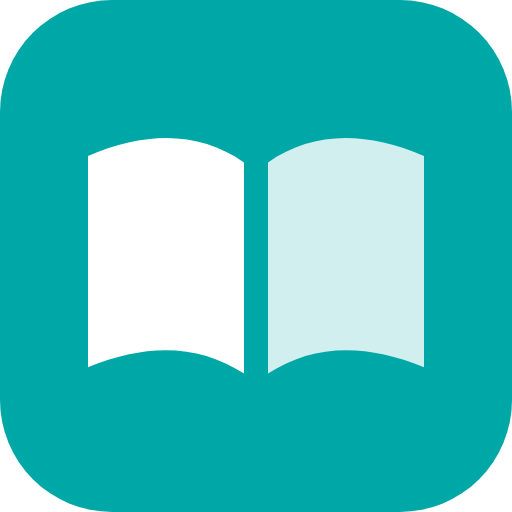
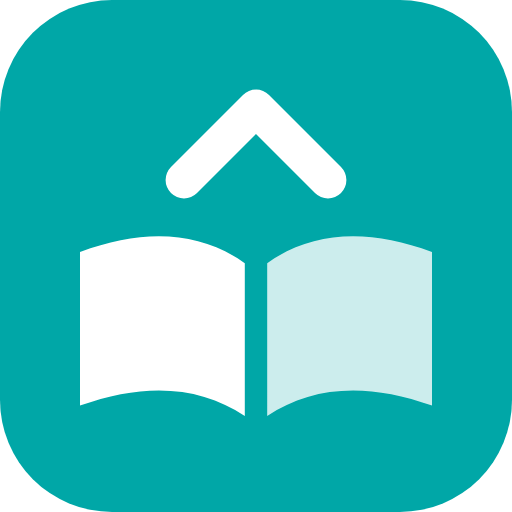
플랫폼 이름 Read to Lead로 변경: 로고·워드마크·아이콘·공유 이미지·메일 제목
Claude-Session: https://claude.ai/code/session_01WajEj62pLWjYi98wKf4MAY

Changed region(s): [[0.1562, 0.1562, 0.8438, 0.8125]]

diff --git a/supabase/functions/notify/index.ts b/supabase/functions/notify/index.ts
@@ -25,7 +25,7 @@ function layout(title: string, lines: string[], url?: string) {
     ? `<p style="margin:24px 0"><a href="${esc(url)}" style="background:#1C1917;color:#fff;padding:12px 20px;border-radius:99px;text-decoration:none;font-weight:700">플랫폼 바로가기</a></p>`
     : "";
   return `<div style="font-family:Pretendard,'Apple SD Gothic Neo','Malgun Gothic',sans-serif;max-width:560px;margin:0 auto;padding:24px;color:#1C1917">
-  <p style="color:#00807F;font-weight:700;margin:0 0 8px">리더십 2년차 독서교육</p>
+  <p style="color:#00807F;font-weight:700;margin:0 0 8px">Read to Lead · 리더십 2년차 독서교육</p>
   <h2 style="margin:0 0 20px;font-size:20px">${title}</h2>${body}${btn}
   <p style="color:#79716B;font-size:12px;margin-top:32px">배움은 생존을 위한 가장 공격적인 투자다 · 상상인그룹 인재경영실</p></div>`;
 }
@@ -69,7 +69,7 @@ Deno.serve(async (req) => {
       let subject: string, html: string, type: string;
       if (body.mode === "accounts") {
         type = "account";
-        subject = "[리더십 2년차] 독서교육 플랫폼 계정 안내";
+        subject = "[Read to Lead] 리더십 2년차 독서교육 계정 안내";
         html = layout(`${esc(p.name)}님, 플랫폼 계정이 준비되었습니다`, [
           `접속 주소: <a href="${esc(appUrl)}">${esc(appUrl)}</a>`,
           `로그인 방법: 계열사 <b>${esc(p.companies?.name)}</b> 선택 → 사번 <b>${esc(p.emp_no)}</b> 입력 → 최초 비밀번호는 <b>본인 사번</b>입니다.`,
@@ -78,7 +78,7 @@ Deno.serve(async (req) => {
         ], appUrl);
       } else {
         type = "manual";
-        subject = String(body.subject || "[리더십 2년차] 제출 안내").replace(/[\r\n]/g, " ").slice(0, 150);
+        subject = String(body.subject || "[Read to Lead] 제출 안내").replace(/[\r\n]/g, " ").slice(0, 150);
         html = layout(esc(subject.replace(/^\[[^\]]+\]\s*/, "")),
           String(body.message || "").split("\n").filter(Boolean).map((l) => esc(l).replace(/\{name\}/g, esc(p.name))), appUrl);
       }
@@ -128,7 +128,7 @@ Deno.serve(async (req) => {
     // 회차 오픈
     if (kstDate(s.open_at) === today) {
       for (const p of people) {
-        tally(await send(db, p.notify_email, `[리더십 2년차] ${s.month}월 회차가 열렸습니다 — ${title}`,
+        tally(await send(db, p.notify_email, `[Read to Lead] ${s.month}월 회차가 열렸습니다 — ${title}`,
           layout(`${s.month}월 회차가 열렸습니다`, [
             `이번 달 도서: <b>${title}</b>${book ? ` · ${esc(book.author)}` : ""}`,
             `토론 일시: ${kstText(s.meet_at)}${s.place ? ` · ${esc(s.place)}` : ""}`,
@@ -145,7 +145,7 @@ Deno.serve(async (req) => {
       for (const p of required) {
         const m = missing(p, ["pre", "presentation"]);
         if (!m.length) continue;
-        tally(await send(db, p.notify_email, `[리더십 2년차] ${m.map((f) => FORM_LABEL[f]).join("·")} 마감 ${d}일 전`,
+        tally(await send(db, p.notify_email, `[Read to Lead] ${m.map((f) => FORM_LABEL[f]).join("·")} 마감 ${d}일 전`,
           layout(`${title} ${m.map((f) => FORM_LABEL[f]).join("·")} 마감이 ${d}일 남았습니다`,
             [`마감: <b>${kstText(s.pre_due_at)}</b>`, "작성 중인 내용은 자동 저장됩니다. 제출 버튼을 눌러야 제출로 인정됩니다."], appUrl),
           { profile_id: p.id, company_id: s.company_id, type: `pre_d${d}`, session_id: s.id, dedupe_key: `pre_d${d}:${s.id}:${p.id}` }));
@@ -155,7 +155,7 @@ Deno.serve(async (req) => {
     if (shift(s.post_due_at, -2) === today) {
       for (const p of required) {
         if (!missing(p, ["post"]).length) continue;
-        tally(await send(db, p.notify_email, `[리더십 2년차] ${s.month}월 과제 마감 2일 전`,
+        tally(await send(db, p.notify_email, `[Read to Lead] ${s.month}월 과제 마감 2일 전`,
           layout(`${title} 과제 마감이 2일 남았습니다`, [`마감: <b>${kstText(s.post_due_at)}</b>`, "토론 주제·인사이트·기대사항을 정리해 제출해 주세요."], appUrl),
           { profile_id: p.id, company_id: s.company_id, type: "post_remind", session_id: s.id, dedupe_key: `post_remind:${s.id}:${p.id}` }));
       }
@@ -171,7 +171,7 @@ Deno.serve(async (req) => {
         const list = overdueByCompany.get(s.company_id) ?? [];
         list.push(`${esc(p.name)}(${esc(p.emp_no)}) · ${s.month}월 ${m.map((f) => FORM_LABEL[f]).join("·")}`);
         overdueByCompany.set(s.company_id, list);
-        tally(await send(db, p.notify_email, `[리더십 2년차] ${s.month}월 ${m.map((f) => FORM_LABEL[f]).join("·")} 미제출 안내`,
+        tally(await send(db, p.notify_email, `[Read to Lead] ${s.month}월 ${m.map((f) => FORM_LABEL[f]).join("·")} 미제출 안내`,
           layout("마감이 지났습니다 — 지연 제출 안내", [
             `${title} ${m.map((f) => FORM_LABEL[f]).join("·")}가 아직 제출되지 않았습니다.`,
             "12회 전 회차를 모두 제출해야 수료할 수 있습니다. 지금 제출하면 '지연 제출'로 기록되며 수료에는 인정됩니다.",
@@ -187,7 +187,7 @@ Deno.serve(async (req) => {
   for (const a of admins) {
     const list = overdueByCompany.get(a.company_id);
     if (list?.length) {
-      tally(await send(db, a.notify_email, `[리더십 2년차] 미제출자 ${list.length}건 안내`,
+      tally(await send(db, a.notify_email, `[Read to Lead] 미제출자 ${list.length}건 안내`,
         layout("마감 후 미제출 현황", [...list.slice(0, 50), list.length > 50 ? `외 ${list.length - 50}건` : ""].filter(Boolean), appUrl),
         { profile_id: a.id, company_id: a.company_id, type: "admin_overdue", dedupe_key: `admin_overdue:${today}:${a.id}` }));
     }
@@ -202,7 +202,7 @@ Deno.serve(async (req) => {
           for (const f of forms) { need++; if (done.has(`${p.id}:${s.month}:${f}`)) got++; }
         }
       }
-      tally(await send(db, a.notify_email, "[리더십 2년차] 주간 제출 현황",
+      tally(await send(db, a.notify_email, "[Read to Lead] 주간 제출 현황",
         layout("주간 제출 현황", [
           `대상자 ${mine.length}명 · 마감 지난 양식 기준 제출률 <b>${need ? Math.round((got / need) * 100) : 0}%</b> (${got}/${need})`,
           "상세 현황은 플랫폼 관리자 화면에서 확인하세요.",

diff --git a/index.html b/index.html
@@ -3,16 +3,17 @@
   <head>
     <meta charset="UTF-8" />
     <meta name="viewport" content="width=device-width, initial-scale=1, viewport-fit=cover" />
-    <title>리더십 2년차 독서교육</title>
-    <meta name="description" content="상상인그룹 '27 리더십 2년차 독서교육 플랫폼 — 월 1회 지정도서 완독, 인사이트 공유, 과제 제출을 한곳에서 관리합니다." />
+    <title>Read to Lead · 상상인그룹 리더십 독서교육</title>
+    <meta name="description" content="Read to Lead — 상상인그룹 '27 리더십 2년차 독서교육 플랫폼. 월 1회 지정도서 완독, 인사이트 공유, 과제 제출을 한곳에서 관리합니다." />
     <!-- 사내 전용: 검색 결과에 노출하지 않음 -->
     <meta name="robots" content="noindex, nofollow" />
     <meta name="theme-color" content="#FAFAF9" media="(prefers-color-scheme: light)" />
+    <meta name="application-name" content="Read to Lead" />
     <meta name="theme-color" content="#141211" media="(prefers-color-scheme: dark)" />
     <!-- 링크 공유 미리보기 (카카오톡·메일·링크드인) -->
     <meta property="og:type" content="website" />
     <meta property="og:site_name" content="상상인그룹 인재경영실" />
-    <meta property="og:title" content="'27 리더십 2년차 독서교육" />
+    <meta property="og:title" content="Read to Lead · '27 리더십 2년차 독서교육" />
     <meta property="og:description" content="지정도서 완독 › 인사이트 공유 › 과제 제출. 사번으로 로그인하세요." />
     <meta property="og:url" content="__SITE_URL__" />
     <meta property="og:image" content="__SITE_URL__og.png" />
@@ -24,7 +25,7 @@
     <link rel="icon" href="./favicon-32.png" sizes="32x32" type="image/png" />
     <link rel="apple-touch-icon" href="./apple-touch-icon.png" />
     <link rel="manifest" href="./site.webmanifest" />
-    <meta name="apple-mobile-web-app-title" content="리더십 독서" />
+    <meta name="apple-mobile-web-app-title" content="Read to Lead" />
     <link rel="stylesheet" href="https://cdn.jsdelivr.net/gh/orioncactus/pretendard@v1.3.9/dist/web/variable/pretendardvariable-dynamic-subset.min.css" />
     <script>try{var t=localStorage.getItem('lr-theme');if(t)document.documentElement.setAttribute('data-theme',t)}catch(e){}</script>
   </head>

diff --git a/src/pages/auth/Privacy.tsx b/src/pages/auth/Privacy.tsx
@@ -15,7 +15,7 @@ export function PrivacyText({ info }: { info: Info | null }) {
   const blank = (v?: string | null) => v || "[ ]";
   return (
     <div className="stack" style={{ fontSize: 14.5 }}>
-      <p>상상인그룹 인재경영실은 {info?.year ?? 2027}년 리더십 2년차 독서교육 운영을 위해 아래와 같이 개인정보를 수집·이용합니다.</p>
+      <p>상상인그룹 인재경영실은 {info?.year ?? 2027}년 리더십 2년차 독서교육(Read to Lead) 운영을 위해 아래와 같이 개인정보를 수집·이용합니다.</p>
       <div className="tbl-wrap"><table><tbody>
         <tr><th style={{ position: "static", width: 130 }}>수집 항목</th><td>소속 계열사, 사번, 성명, 직급 구분, 직책, 부서, 회사 메일 주소, 교육 중 작성한 내용(사전학습·발표자료·과제), 제출·출석 기록, 접속 일시</td></tr>
         <tr><th style={{ position: "static" }}>이용 목적</th><td>교육 대상자 확인과 로그인, 회차 운영(일정·그룹 편성), 제출 현황 관리와 수료 판정, 마감·미제출 안내 메일 발송, 분기별 교육 결과 보고</td></tr>
@@ -37,7 +37,7 @@ export default function Privacy() {
       <DemoBar />
       <main className="wrap" style={{ maxWidth: 760, paddingTop: 40 }}>
         <div className="stack s24">
-          <div className="stack s8"><span className="label">리더십 2년차 독서교육</span><h1>개인정보 수집·이용 안내</h1></div>
+          <div className="stack s8"><span className="label">Read to Lead · 리더십 2년차 독서교육</span><h1>개인정보 수집·이용 안내</h1></div>
           <PrivacyText info={info.data ?? null} />
           <Link to="/" className="btn line" style={{ alignSelf: "flex-start" }}>돌아가기</Link>
         </div>

diff --git a/src/pages/auth/Login.tsx b/src/pages/auth/Login.tsx
@@ -4,7 +4,7 @@ import { useAuth } from "../../state/auth";
 import { callFn, db, DEMO, errMsg } from "../../lib/supabase";
 import { demoAccounts, demoPasswordOf } from "../../lib/demo/client";
 import { DemoBar } from "../../components/Layout";
-import { useToast } from "../../components/ui";
+import { Logo, Wordmark, useToast } from "../../components/ui";
 
 export default function Login() {
   const { me, login } = useAuth();
@@ -48,12 +48,16 @@ export default function Login() {
       <DemoBar />
       <div className="auth-wrap">
         <section className="auth-side">
-          <div className="stack s8">
-            <span className="label" style={{ color: "var(--accent)" }}>상상인그룹 인재경영실</span>
-            <span style={{ fontWeight: 700, opacity: .7 }}>'27 리더십 2년차 교육</span>
+          <div className="row" style={{ gap: 14, flexWrap: "nowrap" }}>
+            <Logo size={44} />
+            <div className="stack" style={{ gap: 2 }}>
+              <span className="label" style={{ color: "var(--accent)" }}>상상인그룹 인재경영실</span>
+              <span style={{ fontWeight: 700, opacity: .7 }}>'27 리더십 2년차 독서교육</span>
+            </div>
           </div>
           <div className="stack s24">
-            <h1 className="display">지정도서 완독 ›<br />인사이트 공유 ›<br />과제 제출</h1>
+            <h1 className="display brand-display"><Wordmark /></h1>
+            <p className="steps">지정도서 완독 › 인사이트 공유 › 과제 제출</p>
             <p className="lead">배움은 생존을 위한 가장 공격적인 투자다</p>
           </div>
           <p style={{ opacity: .6, fontSize: 13 }}>2027년 1~12월 · 월 1회 · 총 12회 · 85명</p>

diff --git a/src/styles.css b/src/styles.css
@@ -52,9 +52,15 @@ button,input,select,textarea{font:inherit;color:inherit}
 /* header */
 .hdr{position:sticky;top:0;z-index:var(--z-header);background:var(--overlay);backdrop-filter:blur(8px);-webkit-backdrop-filter:blur(8px);border-bottom:1px solid var(--subtle);padding-top:env(safe-area-inset-top,0px)}
 .hdr-in{display:flex;align-items:center;gap:16px;min-height:60px}
-.brand{display:flex;align-items:baseline;gap:8px;text-decoration:none;flex-shrink:0}
+.brand{display:flex;align-items:center;gap:8px;text-decoration:none;flex-shrink:0}
 .brand b{font-size:17px;letter-spacing:-0.02em}
 .brand span{font-size:12px;color:var(--text-3);font-weight:600}
+.brand .logo{flex:none;border-radius:8px}
+.wordmark{font-weight:800;letter-spacing:-0.035em;white-space:nowrap}
+.brand .wordmark{font-size:18px;font-weight:800;color:var(--ink)}
+.wordmark i{font-style:normal;color:var(--accent)}
+.auth-side .display.brand-display{font-size:88px;line-height:1;letter-spacing:-0.045em}
+.auth-side .steps{font-size:22px;font-weight:600;letter-spacing:-0.02em;opacity:.85;margin:0}
 .nav{display:flex;gap:2px;overflow-x:auto;min-width:0;flex:1;scrollbar-width:none}
 .nav::-webkit-scrollbar{display:none}
 .nav a{padding:7px 12px;border-radius:var(--r-pill);text-decoration:none;font-size:14px;font-weight:600;color:var(--text-2);white-space:nowrap}
@@ -226,6 +232,8 @@ body.has-tabbar .toast{bottom:calc(var(--tabbar-h) + 16px + env(safe-area-inset-
   .auth-wrap{grid-template-columns:1fr}
   .auth-side{padding:32px 24px}
   .auth-side .display{font-size:32px}
+  .auth-side .display.brand-display{font-size:52px}
+  .auth-side .steps{font-size:17px}
   .auth-main{padding:32px 20px 48px}
 }
 

diff --git a/src/components/Layout.tsx b/src/components/Layout.tsx
@@ -3,7 +3,7 @@ import { Link, NavLink, useLocation, useNavigate } from "react-router-dom";
 import { useAuth } from "../state/auth";
 import { DEMO } from "../lib/supabase";
 import { resetDemo } from "../lib/demo/client";
-import { Icon, useAsync } from "./ui";
+import { Icon, Logo, Wordmark, useAsync } from "./ui";
 import { ViewAsBar, ViewAsPicker } from "./ViewAs";
 import { db } from "../lib/supabase";
 
@@ -84,7 +84,7 @@ export default function Layout({ children }: { children: ReactNode }) {
       <ViewAsBar />
       <header className="hdr">
         <div className="wrap hdr-in">
-          <Link to={userMode ? "/" : isSuper ? "/hq" : "/admin"} className="brand"><b>리더십 2년차 독서</b><span>{userMode ? "'27 상상인그룹" : isSuper ? "총괄 관리자" : "관리자"}</span></Link>
+          <Link to={userMode ? "/" : isSuper ? "/hq" : "/admin"} className="brand" aria-label="Read to Lead 홈"><Logo size={28} /><b><Wordmark /></b><span>{userMode ? "'27 상상인그룹" : isSuper ? "총괄 관리자" : "관리자"}</span></Link>
           <nav className="nav" aria-label="주 메뉴">
             {items.map((i) => <NavLink key={i.to} to={i.to} end={(i as any).end} className={({ isActive }) => (isActive ? "active" : "")}>{i.label}</NavLink>)}
           </nav>

diff --git a/src/pages/admin/Members.tsx b/src/pages/admin/Members.tsx
@@ -111,8 +111,8 @@ export default function Members() {
             : confirm.p.is_active ? <p>{confirm.p.name}님을 비활성 처리합니다. 로그인이 막히고 수료 집계에서 제외되며, 기존 제출 기록은 보존됩니다.</p>
             : <p>{confirm.p.name}님을 다시 활성화합니다.</p>} />
       )}
-      {mail && <NudgeModal people={mail} onClose={() => setMail(null)} subject="[리더십 2년차] 독서교육 플랫폼 계정 안내"
-        message={`{name}님, 안녕하세요.\n'27 리더십 2년차 독서교육 플랫폼 계정이 준비되었습니다.\n로그인: 소속 계열사 선택 → 사번 입력 → 최초 비밀번호는 본인 사번입니다.\n첫 로그인 후 반드시 새 비밀번호로 변경해 주세요.`} />}
+      {mail && <NudgeModal people={mail} onClose={() => setMail(null)} subject="[Read to Lead] 리더십 2년차 독서교육 계정 안내"
+        message={`{name}님, 안녕하세요.\n'27 리더십 2년차 독서교육 플랫폼 'Read to Lead' 계정이 준비되었습니다.\n로그인: 소속 계열사 선택 → 사번 입력 → 최초 비밀번호는 본인 사번입니다.\n첫 로그인 후 반드시 새 비밀번호로 변경해 주세요.`} />}
     </div>
   );
 }

diff --git a/src/components/ui.tsx b/src/components/ui.tsx
@@ -109,6 +109,20 @@ export function BookCover({ title, author, category, url }: { title: string; aut
   );
 }
 
+/** 브랜드 마크: 펼친 책 위로 향하는 화살표 — 읽고(Read) 이끈다(Lead) */
+export function Logo({ size = 28 }: { size?: number }) {
+  return (
+    <svg className="logo" width={size} height={size} viewBox="0 0 64 64" aria-hidden="true">
+      <rect width="64" height="64" rx="14" fill="var(--accent)" />
+      <path d="M23 22.5 32 13.5l9 9" fill="none" stroke="#fff" strokeWidth="4.6" strokeLinecap="round" strokeLinejoin="round" />
+      <path d="M10 31.5c8-3 15-2.6 20.6 1.4V52c-5.6-3.8-12.6-4.2-20.6-1.3z" fill="#fff" />
+      <path d="M54 31.5c-8-3-15-2.6-20.6 1.4V52c5.6-3.8 12.6-4.2 20.6-1.3z" fill="#fff" fillOpacity=".8" />
+    </svg>
+  );
+}
+export const BRAND = "Read to Lead";
+export function Wordmark() { return <span className="wordmark">Read <i>to</i> Lead</span>; }
+
 /** 작은 표지 썸네일 (표지가 없으면 그리지 않음) */
 export function BookThumb({ url, title, w = 56 }: { url?: string | null; title?: string; w?: number }) {
   if (!url) return null;

diff --git a/src/pages/admin/Submissions.tsx b/src/pages/admin/Submissions.tsx
@@ -75,7 +75,7 @@ export default function Submissions() {
       <p className="tiny faint">테두리가 있는 점은 개인 기한이 연장된 양식입니다.</p>
 
       {detail && <Detail p={detail.p} m={detail.m} tracker={tracker} onClose={() => setDetail(null)} onChanged={reload} />}
-      {nudgeMonth && <NudgeModal people={pendingOf(nudgeMonth)} onClose={() => setNudgeMonth(null)} subject={`[리더십 2년차] ${nudgeMonth}월 회차 제출 안내`}
+      {nudgeMonth && <NudgeModal people={pendingOf(nudgeMonth)} onClose={() => setNudgeMonth(null)} subject={`[Read to Lead] ${nudgeMonth}월 회차 제출 안내`}
         message={`{name}님, 안녕하세요.\n${nudgeMonth}월 회차 양식 중 아직 제출되지 않은 항목이 있습니다.\n12회 전 회차를 모두 제출해야 수료할 수 있으니 플랫폼에서 확인 부탁드립니다.`} />}
     </div>
   );

diff --git a/src/pages/admin/Dashboard.tsx b/src/pages/admin/Dashboard.tsx
@@ -100,7 +100,7 @@ export default function AdminDashboard() {
         </section>
       </div>
 
-      {nudge && <NudgeModal people={nudge} onClose={() => setNudge(null)} subject={`[리더십 2년차] ${m}월 회차 제출 안내`}
+      {nudge && <NudgeModal people={nudge} onClose={() => setNudge(null)} subject={`[Read to Lead] ${m}월 회차 제출 안내`}
         message={`{name}님, 안녕하세요.\n${m}월 회차 양식이 아직 제출되지 않았습니다.\n12회 전 회차를 모두 제출해야 수료할 수 있으니 플랫폼에서 확인 부탁드립니다.`} />}
     </div>
   );

diff --git a/public/404.html b/public/404.html
@@ -1,6 +1,6 @@
 <!doctype html>
 <html lang="ko"><head><meta charset="utf-8"><meta name="robots" content="noindex, nofollow">
-<meta name="viewport" content="width=device-width, initial-scale=1"><title>페이지를 찾을 수 없어요 · 리더십 2년차 독서교육</title>
+<meta name="viewport" content="width=device-width, initial-scale=1"><title>페이지를 찾을 수 없어요 · Read to Lead</title>
 <script>
   // GitHub Pages: 잘못된 주소로 들어오면 사이트 첫 화면(로그인)으로 이동
   (function () {

diff --git a/src/App.tsx b/src/App.tsx
@@ -65,7 +65,7 @@ function TitleSync() {
   const { pathname } = useLocation();
   useEffect(() => {
     const t = TITLES.find(([re]) => re.test(pathname))?.[1] ?? "홈";
-    document.title = `${t} · 리더십 2년차 독서교육`;
+    document.title = `${t} · Read to Lead`;
   }, [pathname]);
   return null;
 }
